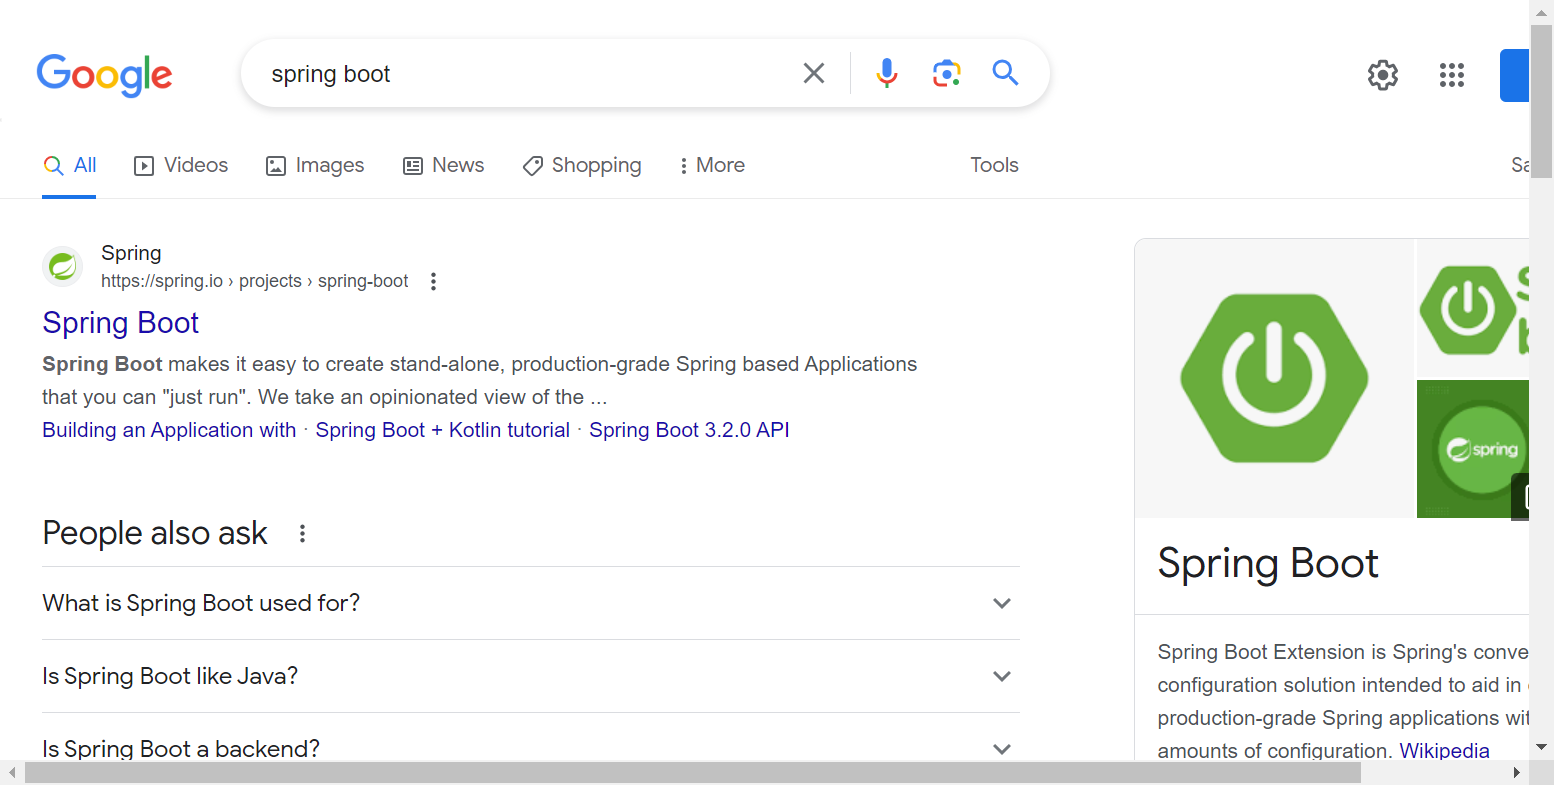
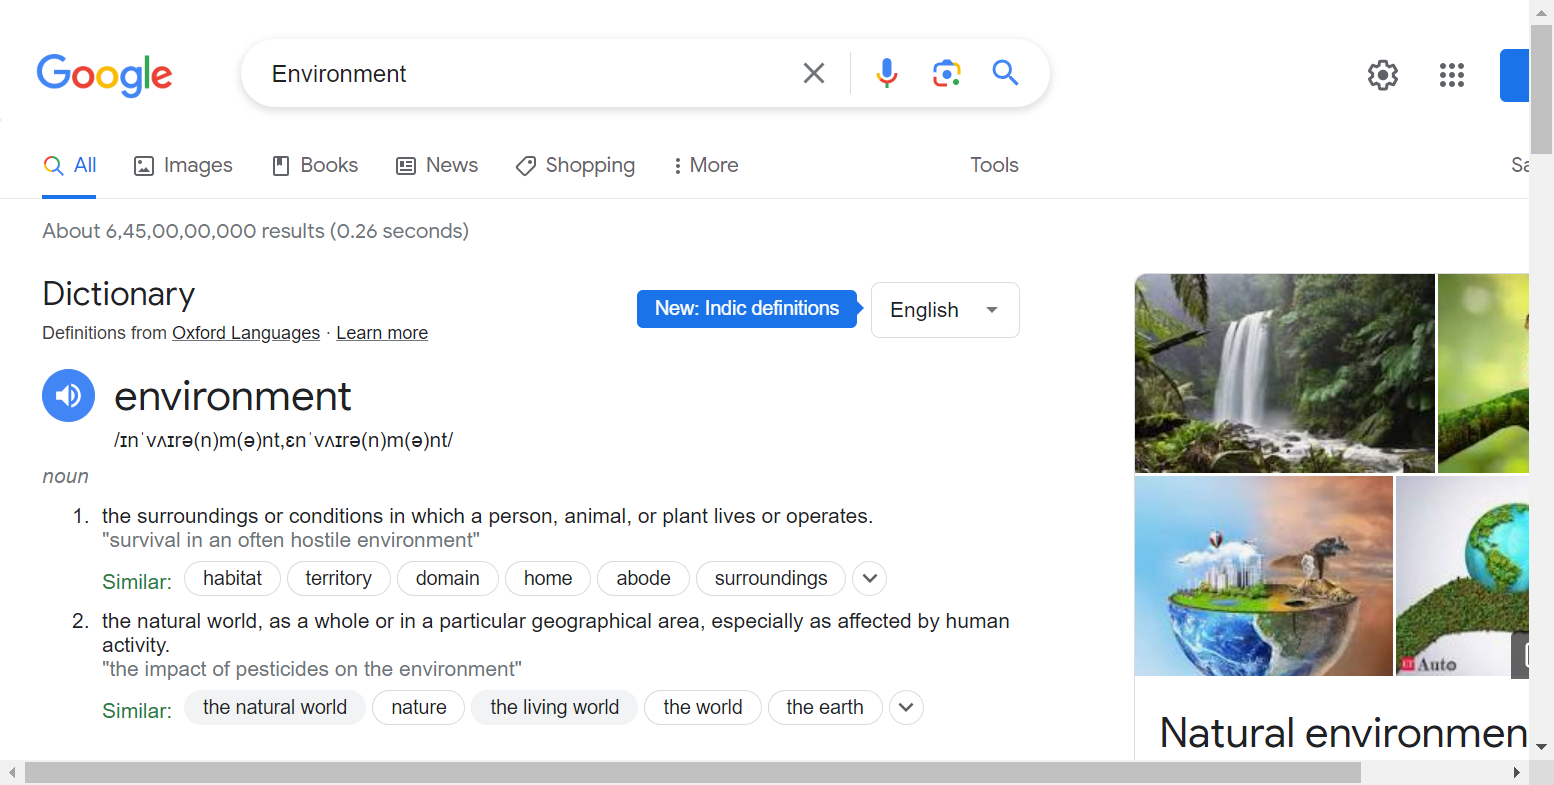
Test framework

diff --git a/src/main/java/com/navali/spring_selenium/config/WebDriverConfig.java b/src/main/java/com/navali/spring_selenium/config/WebDriverConfig.java
@@ -5,6 +5,7 @@ import org.openqa.selenium.chrome.ChromeDriver;
 import org.openqa.selenium.edge.EdgeDriver;
 import org.openqa.selenium.support.ui.WebDriverWait;
 import org.springframework.beans.factory.annotation.Value;
+import org.springframework.boot.autoconfigure.condition.ConditionalOnMissingBean;
 import org.springframework.boot.autoconfigure.condition.ConditionalOnProperty;
 import org.springframework.context.annotation.Bean;
 import org.springframework.context.annotation.Configuration;
@@ -19,17 +20,17 @@ public class WebDriverConfig {
     private int timeout;
 
     @Bean
-    @ConditionalOnProperty(name="Browser",havingValue = "Chrome")
-    public WebDriver chromeDriver() {
-        System.setProperty("webdriver.chrome.driver","C:\\Users\\XN726LM\\Desktop\\spring_selenium\\src\\main\\resources\\driver\\chromedriver.exe");
-        return new ChromeDriver();
-    }
-
-    @Bean
     @ConditionalOnProperty(name="Browser",havingValue = "Edge")
     public WebDriver edgeDriver() {
         System.setProperty("webdriver.edge.driver","C:\\Users\\XN726LM\\Desktop\\spring_selenium\\src\\main\\resources\\driver\\msedgedriver.exe");
         return new EdgeDriver();
+    }
+
+    @Bean
+    @ConditionalOnMissingBean
+    public WebDriver chromeDriver() {
+        System.setProperty("webdriver.chrome.driver","C:\\Users\\XN726LM\\Desktop\\spring_selenium\\src\\main\\resources\\driver\\chromedriver.exe");
+        return new ChromeDriver();
     }
 
     @Bean

diff --git a/src/test/java/com/navali/spring_selenium/googleTest/GoogleTest1.java b/src/test/java/com/navali/spring_selenium/googleTest/GoogleTest1.java
@@ -1,0 +1,35 @@
+package com.navali.spring_selenium.googleTest;
+
+import com.google.common.util.concurrent.Uninterruptibles;
+import com.navali.spring_selenium.SpringBaseTestNGTest;
+import com.navali.spring_selenium.page.google.GooglePage;
+import com.navali.spring_selenium.utils.ScreenShots;
+import org.springframework.beans.factory.annotation.Autowired;
+import org.springframework.context.annotation.Lazy;
+import org.testng.Assert;
+import org.testng.annotations.Test;
+
+import java.io.IOException;
+import java.util.concurrent.TimeUnit;
+
+public class GoogleTest1 extends SpringBaseTestNGTest {
+
+    @Autowired
+    private GooglePage googlePage;
+
+    @Lazy
+    @Autowired
+    private ScreenShots screenShots;
+
+    @Test
+    public void googleTest() throws IOException {
+        this.googlePage.goTo();
+        Assert.assertTrue(this.googlePage.isAt());
+        this.googlePage.getSearchComponent().search("Environment ");
+        Assert.assertTrue(this.googlePage.getSearchResults().isAt());
+        Assert.assertTrue(this.googlePage.getSearchResults().getCount() > 2);
+        this.screenShots.takeScreenShots();
+        this.googlePage.close();
+    }
+
+}

diff --git a/src/test/java/com/navali/spring_selenium/googleTest/GoogleTest2.java b/src/test/java/com/navali/spring_selenium/googleTest/GoogleTest2.java
@@ -1,5 +1,6 @@
 package com.navali.spring_selenium.googleTest;
 
+import com.google.common.util.concurrent.Uninterruptibles;
 import com.navali.spring_selenium.SpringBaseTestNGTest;
 import com.navali.spring_selenium.page.google.GooglePage;
 import com.navali.spring_selenium.utils.ScreenShots;
@@ -9,8 +10,9 @@ import org.testng.Assert;
 import org.testng.annotations.Test;
 
 import java.io.IOException;
+import java.util.concurrent.TimeUnit;
 
-public class GoogleTest extends SpringBaseTestNGTest {
+public class GoogleTest2 extends SpringBaseTestNGTest {
 
     @Autowired
     private GooglePage googlePage;
@@ -23,7 +25,7 @@ public class GoogleTest extends SpringBaseTestNGTest {
     public void googleTest() throws IOException {
         this.googlePage.goTo();
         Assert.assertTrue(this.googlePage.isAt());
-        this.googlePage.getSearchComponent().search("spring boot");
+        this.googlePage.getSearchComponent().search("Spring Boot ");
         Assert.assertTrue(this.googlePage.getSearchResults().isAt());
         Assert.assertTrue(this.googlePage.getSearchResults().getCount() > 2);
         this.screenShots.takeScreenShots();
